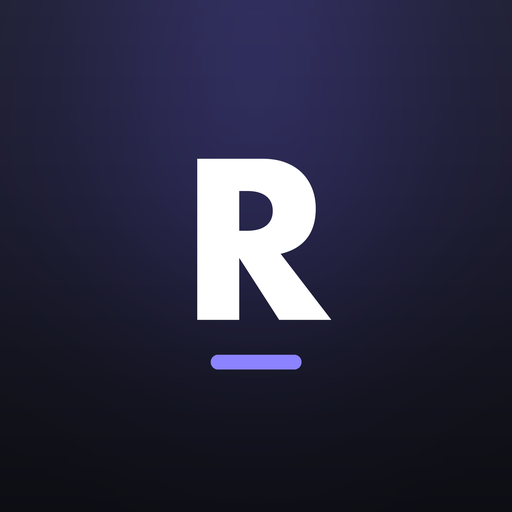
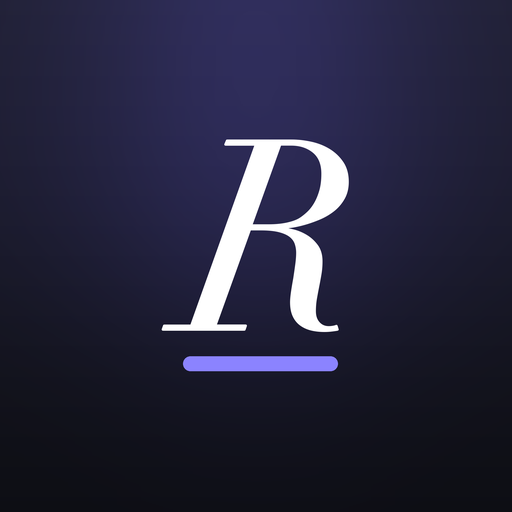
ReNote v12：アイコンのRをディド系イタリックの独自ロゴに刷新

Changed region(s): [[0.3125, 0.25, 0.6875, 0.6562], [0.3438, 0.6875, 0.6562, 0.75]]

diff --git a/note/sw.js b/note/sw.js
@@ -2,7 +2,7 @@
    ほうしん:「ネットワーク優先」。まずネットから最新をとり、とれたものをキャッシュに控える。
    ネットがないときだけキャッシュで動く。キャッシュを先に見る方式にすると
    「直したのに古い画面が出る」事故になるので、ぜったいにしない。 */
-const VER = 'mn-v11';
+const VER = 'mn-v12';
 self.addEventListener('install', e => self.skipWaiting());
 self.addEventListener('activate', e => {
   e.waitUntil((async () => {

diff --git a/note/index.html b/note/index.html
@@ -303,7 +303,7 @@ code{background:var(--surf2);border-radius:6px;padding:2px 6px;font-size:.82rem;
 <script>
 'use strict';
 /* ===================== 定数 ===================== */
-const VER = 11;
+const VER = 12;
 const K_N = 'mn_notes', K_F = 'mn_folders', K_C = 'mn_cfg';
 const $ = s => document.querySelector(s);
 const $$ = s => [...document.querySelectorAll(s)];
